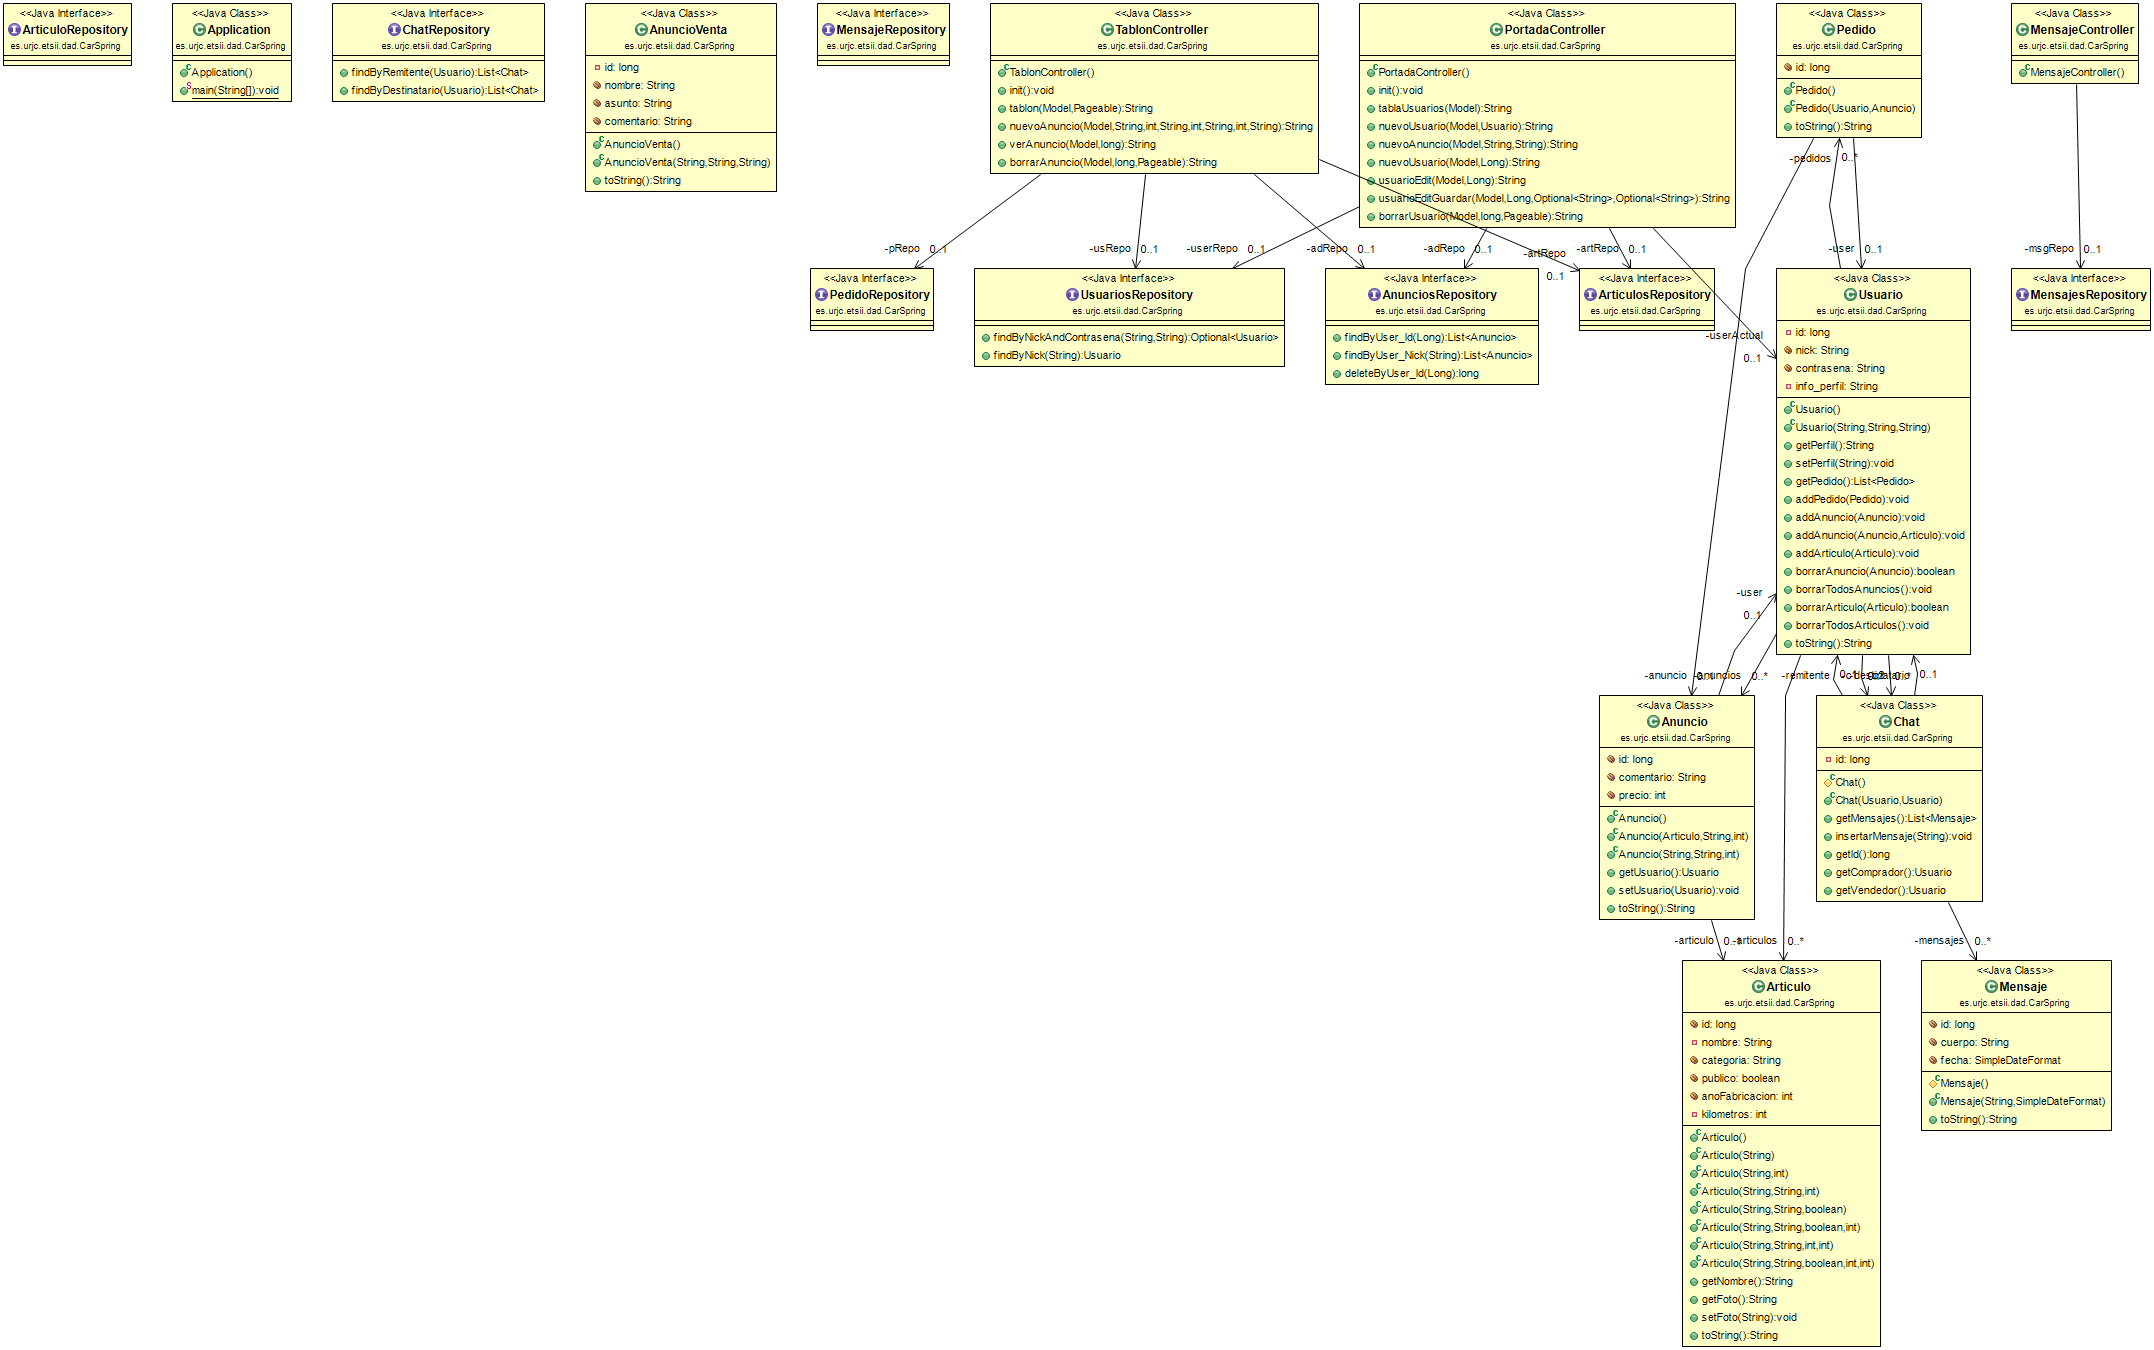
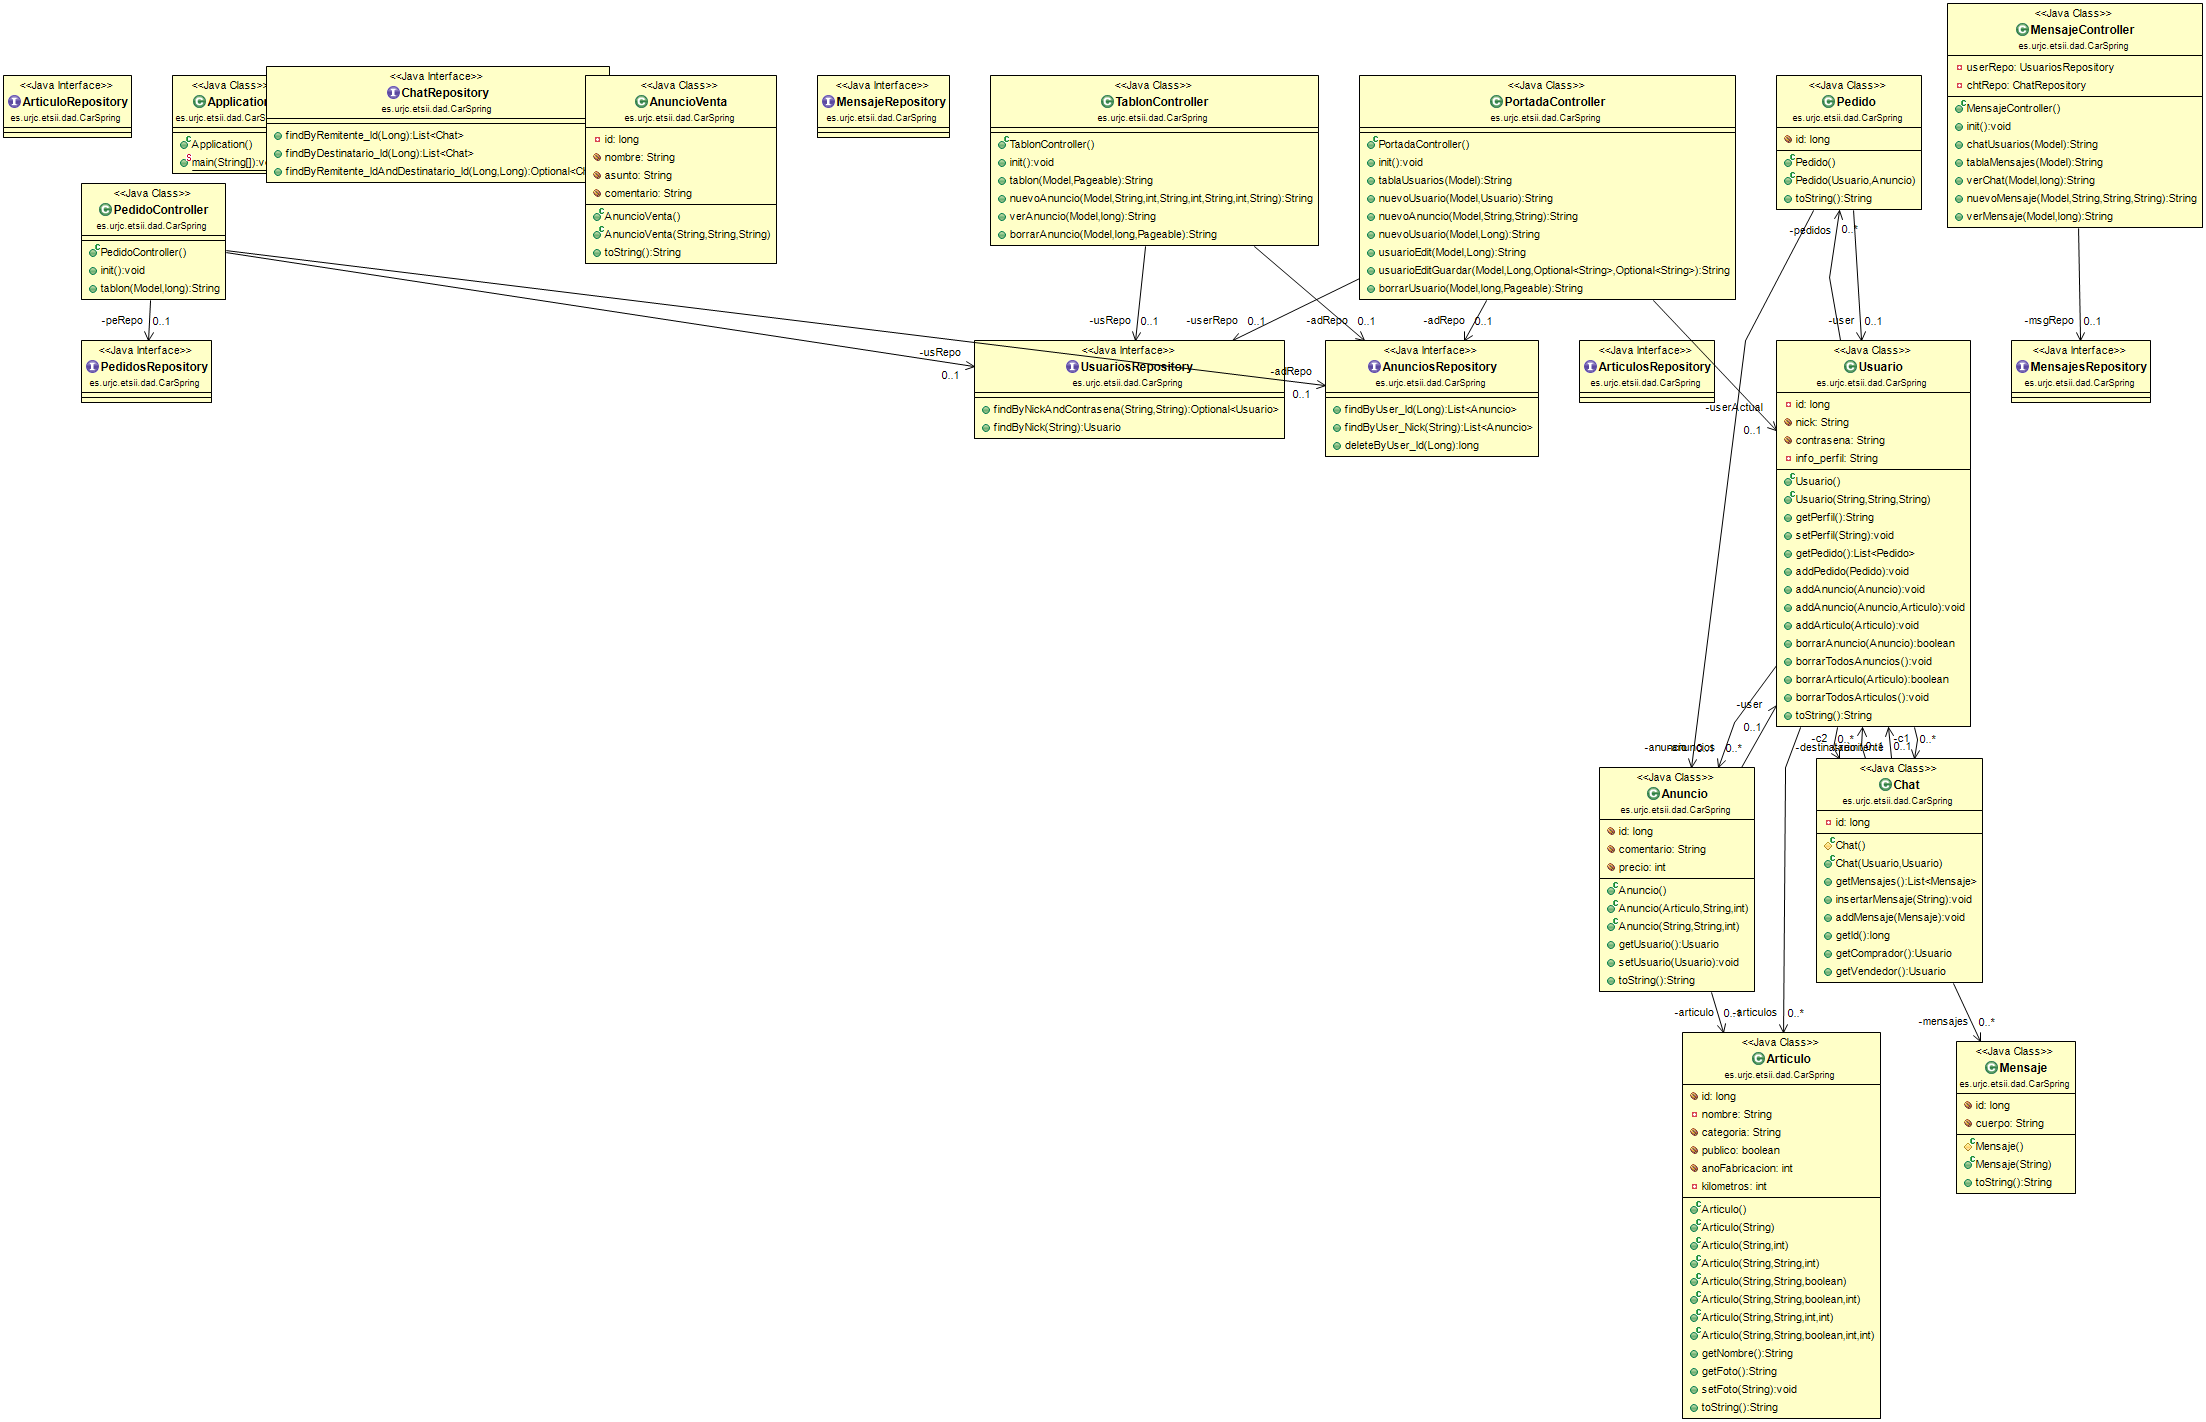
Pedidos y mensaje funcionales
Añadido cambios en el UML

Changed region(s): [[0.0, 0.0, 1.0, 1.0], [0.1555, 0.1867, 0.2488, 0.2178]]

diff --git a/DAD_CarSpring/src/main/resources/templates/pedido_realizado.html b/DAD_CarSpring/src/main/resources/templates/pedido_realizado.html
@@ -4,7 +4,6 @@
 	<meta name="viewport" content="width=device-width, initial-scale=1">
 	<link rel="stylesheet" href="https://maxcdn.bootstrapcdn.com/bootstrap/4.4.1/css/bootstrap.min.css" />
 </head>
-
 <body>
 	<nav class="navbar navbar-expand-sm bg-dark navbar-dark sticky-top">
 		<a class="navbar-brand" href="#">CarSpring</a>
@@ -12,8 +11,8 @@
 			<span class="navbar-toggler-icon"></span>
 		</button>
 		<div class="collapse navbar-collapse" id="collapsibleNavbar">
-		<ul class="nav navbar-nav nav-fill">
-				<li class="nav-item">        </li>
+			<ul class="nav navbar-nav nav-fill">
+ 				<li class="nav-item">        </li>
   				<li class="nav-item"><a class="nav-link" href="/">Inicio</a></li>
   				<li class="nav-item"><a class="nav-link" href="/tablon">Tablón</a></li>
 				<li class="nav-item"><a class="nav-link" href="/nuevoAnuncio.html">Nuevo Anuncio</a></li>
@@ -28,25 +27,7 @@
 		</div>
 	</nav>
 	<br>
-
-	{{#hayChat}} 
-			<h3><a href="/usuario/{{destinatario.id}}"> Chat con {{destinatario.nick}}</h3>
-			{{#mensajes}}
-			<div class="row">
-				<p>{{.cuerpo}}</p>
-			</div>
-			{{/mensajes}}
-	{{/hayChat}}
-
-	<form align = center action="mensaje/nuevo/3" method="post">
-		<p>Escribe el nombre de usuario del destinatario
-		<input type='text' name='destinatario'><br> </p>
-		<p>Escribe tu nombre de usuario
-		<input type='text' name='remitente'><br> </p>
-		<p>Cuerpo del mensaje:
-		<textarea name='cuerpo' rows=5 cols=40></textarea></p>
-
-		<input type='submit' value='Enviar'/>
-	</form>
+	<p align="center">El pedido ha sido realizado con éxito.</p>
+	<p align="center"><a href="/tablon/?page=0&size=50" class="btn btn-success">Volver al tablón</a>
 </body>
 </html> 

diff --git a/DAD_CarSpring/target/classes/templates/pedido_realizado.html b/DAD_CarSpring/target/classes/templates/pedido_realizado.html
@@ -4,7 +4,6 @@
 	<meta name="viewport" content="width=device-width, initial-scale=1">
 	<link rel="stylesheet" href="https://maxcdn.bootstrapcdn.com/bootstrap/4.4.1/css/bootstrap.min.css" />
 </head>
-
 <body>
 	<nav class="navbar navbar-expand-sm bg-dark navbar-dark sticky-top">
 		<a class="navbar-brand" href="#">CarSpring</a>
@@ -12,8 +11,8 @@
 			<span class="navbar-toggler-icon"></span>
 		</button>
 		<div class="collapse navbar-collapse" id="collapsibleNavbar">
-		<ul class="nav navbar-nav nav-fill">
-				<li class="nav-item">        </li>
+			<ul class="nav navbar-nav nav-fill">
+ 				<li class="nav-item">        </li>
   				<li class="nav-item"><a class="nav-link" href="/">Inicio</a></li>
   				<li class="nav-item"><a class="nav-link" href="/tablon">Tablón</a></li>
 				<li class="nav-item"><a class="nav-link" href="/nuevoAnuncio.html">Nuevo Anuncio</a></li>
@@ -28,25 +27,7 @@
 		</div>
 	</nav>
 	<br>
-
-	{{#hayChat}} 
-			<h3><a href="/usuario/{{destinatario.id}}"> Chat con {{destinatario.nick}}</h3>
-			{{#mensajes}}
-			<div class="row">
-				<p>{{.cuerpo}}</p>
-			</div>
-			{{/mensajes}}
-	{{/hayChat}}
-
-	<form align = center action="mensaje/nuevo/3" method="post">
-		<p>Escribe el nombre de usuario del destinatario
-		<input type='text' name='destinatario'><br> </p>
-		<p>Escribe tu nombre de usuario
-		<input type='text' name='remitente'><br> </p>
-		<p>Cuerpo del mensaje:
-		<textarea name='cuerpo' rows=5 cols=40></textarea></p>
-
-		<input type='submit' value='Enviar'/>
-	</form>
+	<p align="center">El pedido ha sido realizado con éxito.</p>
+	<p align="center"><a href="/tablon/?page=0&size=50" class="btn btn-success">Volver al tablón</a>
 </body>
 </html> 

diff --git a/DAD_CarSpring/src/main/resources/templates/mensaje_enviado.html b/DAD_CarSpring/src/main/resources/templates/mensaje_enviado.html
@@ -4,7 +4,6 @@
 	<meta name="viewport" content="width=device-width, initial-scale=1">
 	<link rel="stylesheet" href="https://maxcdn.bootstrapcdn.com/bootstrap/4.4.1/css/bootstrap.min.css" />
 </head>
-
 <body>
 	<nav class="navbar navbar-expand-sm bg-dark navbar-dark sticky-top">
 		<a class="navbar-brand" href="#">CarSpring</a>
@@ -12,8 +11,8 @@
 			<span class="navbar-toggler-icon"></span>
 		</button>
 		<div class="collapse navbar-collapse" id="collapsibleNavbar">
-		<ul class="nav navbar-nav nav-fill">
-				<li class="nav-item">        </li>
+			<ul class="nav navbar-nav nav-fill">
+ 				<li class="nav-item">        </li>
   				<li class="nav-item"><a class="nav-link" href="/">Inicio</a></li>
   				<li class="nav-item"><a class="nav-link" href="/tablon">Tablón</a></li>
 				<li class="nav-item"><a class="nav-link" href="/nuevoAnuncio.html">Nuevo Anuncio</a></li>
@@ -28,25 +27,7 @@
 		</div>
 	</nav>
 	<br>
-
-	{{#hayChat}} 
-			<h3><a href="/usuario/{{destinatario.id}}"> Chat con {{destinatario.nick}}</h3>
-			{{#mensajes}}
-			<div class="row">
-				<p>{{.cuerpo}}</p>
-			</div>
-			{{/mensajes}}
-	{{/hayChat}}
-
-	<form align = center action="mensaje/nuevo/3" method="post">
-		<p>Escribe el nombre de usuario del destinatario
-		<input type='text' name='destinatario'><br> </p>
-		<p>Escribe tu nombre de usuario
-		<input type='text' name='remitente'><br> </p>
-		<p>Cuerpo del mensaje:
-		<textarea name='cuerpo' rows=5 cols=40></textarea></p>
-
-		<input type='submit' value='Enviar'/>
-	</form>
+	<p align="center">Mensaje Enviado.</p>
+	<p align="center"><a href="/tablon/?page=0&size=50" class="btn btn-success">Volver al tablón</a>
 </body>
 </html> 

diff --git a/DAD_CarSpring/target/classes/templates/mensaje_enviado.html b/DAD_CarSpring/target/classes/templates/mensaje_enviado.html
@@ -4,7 +4,6 @@
 	<meta name="viewport" content="width=device-width, initial-scale=1">
 	<link rel="stylesheet" href="https://maxcdn.bootstrapcdn.com/bootstrap/4.4.1/css/bootstrap.min.css" />
 </head>
-
 <body>
 	<nav class="navbar navbar-expand-sm bg-dark navbar-dark sticky-top">
 		<a class="navbar-brand" href="#">CarSpring</a>
@@ -12,8 +11,8 @@
 			<span class="navbar-toggler-icon"></span>
 		</button>
 		<div class="collapse navbar-collapse" id="collapsibleNavbar">
-		<ul class="nav navbar-nav nav-fill">
-				<li class="nav-item">        </li>
+			<ul class="nav navbar-nav nav-fill">
+ 				<li class="nav-item">        </li>
   				<li class="nav-item"><a class="nav-link" href="/">Inicio</a></li>
   				<li class="nav-item"><a class="nav-link" href="/tablon">Tablón</a></li>
 				<li class="nav-item"><a class="nav-link" href="/nuevoAnuncio.html">Nuevo Anuncio</a></li>
@@ -28,25 +27,7 @@
 		</div>
 	</nav>
 	<br>
-
-	{{#hayChat}} 
-			<h3><a href="/usuario/{{destinatario.id}}"> Chat con {{destinatario.nick}}</h3>
-			{{#mensajes}}
-			<div class="row">
-				<p>{{.cuerpo}}</p>
-			</div>
-			{{/mensajes}}
-	{{/hayChat}}
-
-	<form align = center action="mensaje/nuevo/3" method="post">
-		<p>Escribe el nombre de usuario del destinatario
-		<input type='text' name='destinatario'><br> </p>
-		<p>Escribe tu nombre de usuario
-		<input type='text' name='remitente'><br> </p>
-		<p>Cuerpo del mensaje:
-		<textarea name='cuerpo' rows=5 cols=40></textarea></p>
-
-		<input type='submit' value='Enviar'/>
-	</form>
+	<p align="center">Mensaje Enviado.</p>
+	<p align="center"><a href="/tablon/?page=0&size=50" class="btn btn-success">Volver al tablón</a>
 </body>
 </html> 

diff --git a/DAD_CarSpring/src/main/resources/templates/ver_anuncio.html b/DAD_CarSpring/src/main/resources/templates/ver_anuncio.html
@@ -37,7 +37,7 @@
 	<p align="center">Vendedor: <a href="/usuario/{{anuncio.usuario.id}}">{{anuncio.usuario.nick}}</a></p>
 	
 	<p align="center"><a href="/tablon/?page=0&size=50" class="btn btn-success">Volver al tablón</a>
-	<a href="" class="btn btn-success">Estoy interesado</a></p>
+	<a href="/nuevo_pedido/{{anuncio.id}}" class="btn btn-success">Estoy interesado</a></p>
 	<p align="center"><a href="/borrar_anuncio/{{anuncio.id}}" class="btn btn-success">Borrar anuncio</a></p>
 </body>
 </html>

diff --git a/DAD_CarSpring/target/classes/templates/ver_anuncio.html b/DAD_CarSpring/target/classes/templates/ver_anuncio.html
@@ -37,7 +37,7 @@
 	<p align="center">Vendedor: <a href="/usuario/{{anuncio.usuario.id}}">{{anuncio.usuario.nick}}</a></p>
 	
 	<p align="center"><a href="/tablon/?page=0&size=50" class="btn btn-success">Volver al tablón</a>
-	<a href="" class="btn btn-success">Estoy interesado</a></p>
+	<a href="/nuevo_pedido/{{anuncio.id}}" class="btn btn-success">Estoy interesado</a></p>
 	<p align="center"><a href="/borrar_anuncio/{{anuncio.id}}" class="btn btn-success">Borrar anuncio</a></p>
 </body>
 </html>

diff --git a/DAD_CarSpring/src/main/resources/templates/ver_chat.html b/DAD_CarSpring/src/main/resources/templates/ver_chat.html
@@ -39,6 +39,10 @@
 	{{/hayChat}}
 
 	<form align = center action="mensaje/nuevo/3" method="post">
+		<p>Escribe el nombre de usuario del destinatario
+		<input type='text' name='destinatario'><br> </p>
+		<p>Escribe tu nombre de usuario
+		<input type='text' name='remitente'><br> </p>
 		<p>Cuerpo del mensaje:
 		<textarea name='cuerpo' rows=5 cols=40></textarea></p>
 

diff --git a/DAD_CarSpring/src/main/java/es/urjc/etsii/dad/CarSpring/MensajeController.java b/DAD_CarSpring/src/main/java/es/urjc/etsii/dad/CarSpring/MensajeController.java
@@ -30,6 +30,23 @@ public class MensajeController {
 	@PostConstruct
 	public void init () {
 
+		
+		Usuario u1 = new Usuario ("chema", "chema", "Hola, soy Chema");
+		userRepo.save(u1);
+		Usuario u2 = new Usuario ("jorge", "jorge", "Hola, soy Jorge");
+		userRepo.save(u2);
+		Chat c1 = new Chat(u1,u2); //u1 es remitente, u2 es destinatario
+		Chat c2 = new Chat(u2,u1); 
+		chtRepo.save(c1);
+		chtRepo.save(c2);
+
+		Mensaje m1 = new Mensaje ("Prueba de que hay mensajes dentro del chat");
+		Mensaje m2 = new Mensaje ("Prueba de que hay una contestación");
+		c1.addMensaje(m1);
+		c2.addMensaje(m2);
+		chtRepo.save(c1); 
+		chtRepo.save(c2); 
+
 	}
 
 	@GetMapping("/bandeja_entrada")
@@ -45,30 +62,36 @@ public class MensajeController {
 
 		model.addAttribute("mensaje", msgRepo.findAll());
 
-		return "index";
+		return "mensaje_enviado";
 	}
 
 	@GetMapping("/chat/{toId}")
 	public String verChat(Model model, @PathVariable long toId) {
-
+		
+		
+		/*
 		//Esto va a haber que cambiarlo para buscar el remitente cuando haya inicios de sesión
 		java.util.List<Chat> listachats = chtRepo.findByDestinatario_Id(toId);
 		model.addAttribute("hayChat", false);
-
+		
+		model.addAttribute("destinatario", userRepo.findByNick("uPrueba1"));
+		
 		if(!listachats.isEmpty()) {
 			model.addAttribute("chat", listachats.get(0));
 			model.addAttribute("hayChat", true);
 		}
-		
+		 */
 		return "ver_chat";
 		
 	}
 	
-	@PostMapping("mensaje/nuevo/{id}")
-	public String nuevoMensaje(Model model, @PathVariable long id, @RequestParam(defaultValue="") String cuerpo) {
+	@PostMapping("chat/mensaje/nuevo/{id}")
+	public String nuevoMensaje(Model model, @RequestParam(defaultValue="") String cuerpo, @RequestParam String destinatario, @RequestParam String remitente) {
 
+		/*
 		Optional<Chat> op = chtRepo.findById(id);
-
+		
+		
 		if(op.isPresent()) {
 
 			Chat chat = op.get();
@@ -76,8 +99,17 @@ public class MensajeController {
 			model.addAttribute("chat", chat);
 
 		}
+		*/
 		
-		return "ver_chat";
+		Chat c1 = new Chat(userRepo.findByNick(remitente), userRepo.findByNick(destinatario)); //u1 es remitente, u2 es destinatario
+		chtRepo.save(c1);
+
+		Mensaje m1 = new Mensaje (cuerpo);
+		c1.addMensaje(m1);
+		chtRepo.save(c1); 
+		 
+		
+		return "mensaje_enviado";
 	}
 
 	@GetMapping("/mensaje/{id}")
@@ -89,7 +121,7 @@ public class MensajeController {
 			model.addAttribute("chat", mesnaje.get());
 		}
 
-		return "ver_mensaje";
+		return "mensaje_enviado";
 	}
 
 }

diff --git a/DAD_CarSpring/src/main/java/es/urjc/etsii/dad/CarSpring/PedidoController.java b/DAD_CarSpring/src/main/java/es/urjc/etsii/dad/CarSpring/PedidoController.java
@@ -1,0 +1,43 @@
+package es.urjc.etsii.dad.CarSpring;
+
+import java.util.Optional;
+
+import javax.annotation.PostConstruct;
+
+import org.springframework.beans.factory.annotation.Autowired;
+import org.springframework.data.domain.Pageable;
+import org.springframework.stereotype.Controller;
+import org.springframework.ui.Model;
+import org.springframework.web.bind.annotation.GetMapping;
+import org.springframework.web.bind.annotation.PathVariable;
+import org.springframework.web.bind.annotation.PostMapping;
+import org.springframework.web.bind.annotation.RequestParam;
+
+
+@Controller
+public class PedidoController {
+
+	@Autowired
+	private AnunciosRepository adRepo;
+	@Autowired
+	private UsuariosRepository usRepo;
+	@Autowired
+	private PedidosRepository peRepo; 
+
+	@PostConstruct
+	public void init() {
+
+	}
+
+	@GetMapping("/nuevo_pedido/{idAnuncio}")
+	public String tablon(Model model, @PathVariable long idAnuncio) {
+
+		Usuario user = usRepo.findByNick("pepe");
+		Optional<Anuncio> op = adRepo.findById(idAnuncio);
+		if(op.isPresent()) {
+			peRepo.save(new Pedido(user, op.get()));
+		}
+		return "pedido_realizado";
+	}
+
+} 

diff --git a/DAD_CarSpring/src/main/java/es/urjc/etsii/dad/CarSpring/PedidosRepository.java b/DAD_CarSpring/src/main/java/es/urjc/etsii/dad/CarSpring/PedidosRepository.java
@@ -1,0 +1,7 @@
+package es.urjc.etsii.dad.CarSpring;
+
+import org.springframework.data.jpa.repository.JpaRepository;
+
+public interface PedidosRepository extends JpaRepository<Pedido, Long> {
+
+}
